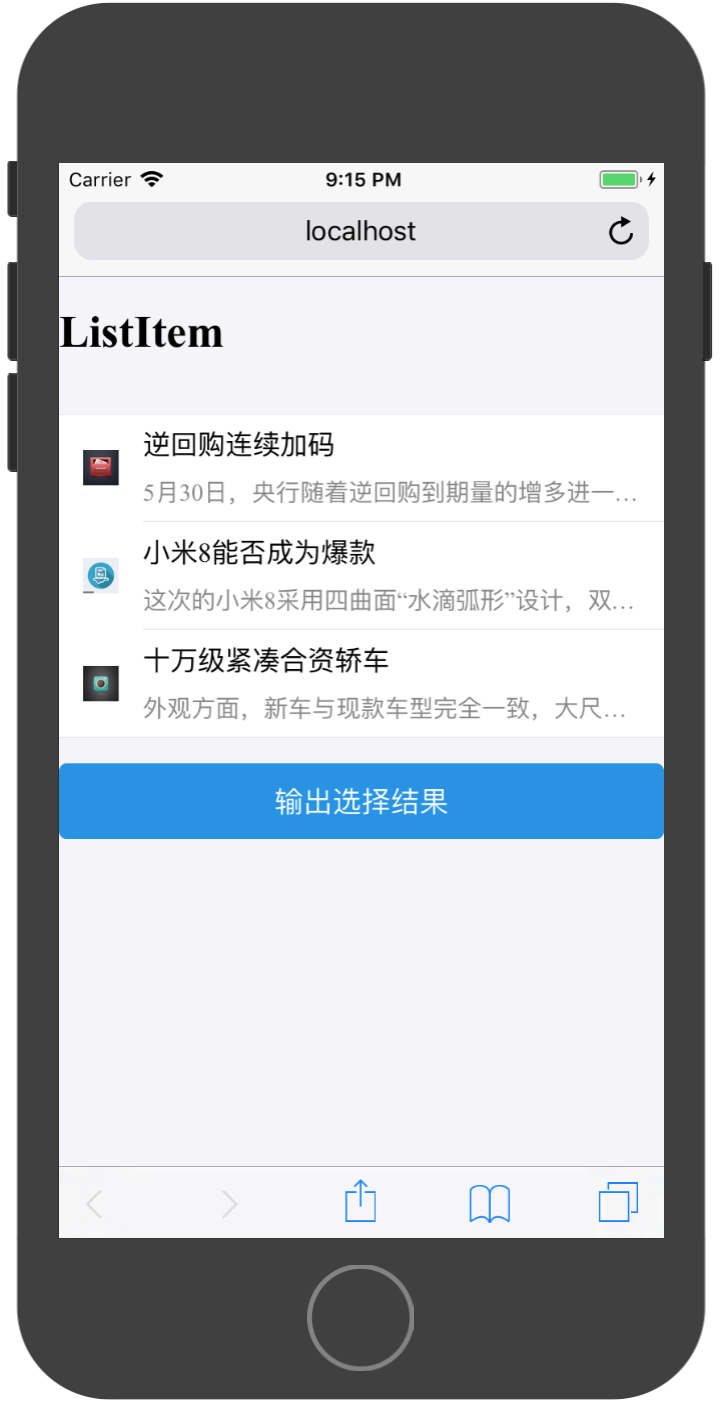
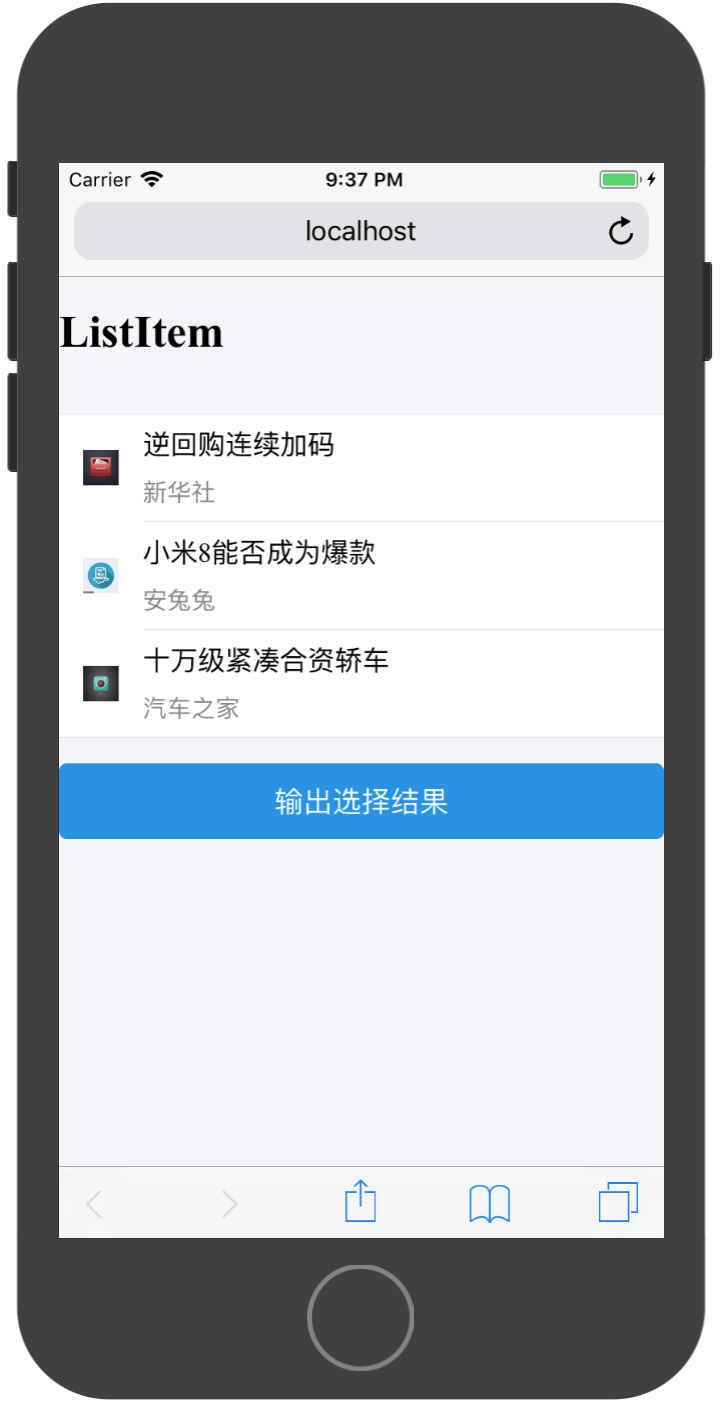
修改子标题代码数据

diff --git a/AntDesign/ListComponent.md b/AntDesign/ListComponent.md
@@ -121,7 +121,7 @@ export default class App extends Component {
 
 ```
 
-通过``可以为Item添加子标题：
+通过`List.Item.Brief`可以为Item添加子标题：
 
 ![44.png](../images/44.png)
 
@@ -137,20 +137,23 @@ const messages = [
   {
     id:10001,
     title:'逆回购连续加码',
-    content:'5月30日，央行随着逆回购到期量的增多进一步加大了公开市场操作力度，当次共开展2700亿元逆回购操作，实现净投放700亿元，连续三日实施净投放。市场人士指出，企业所得税汇算清缴叠加月末效应等，致使短期流动性承压，也应看到，央行在加大资金投放力度的同时，丰富了逆回购期限组合，有助于满足不同机构的流动性需求，资金面紧张局势不是大幅恶化，预计跨月后将有所好转。',
-    image:'http://suo.im/5bvA3t'
+    content:'新华社',
+    image:'http://suo.im/5bvA3t',
+    like:10,
   },
   {
     id:10002,
     title:'小米8能否成为爆款',
-    content:'这次的小米8采用四曲面“水滴弧形”设计，双面玻璃+金属材质中框，正面配备6.21英寸18.7：9的三星AMOLED异形全面屏，机身厚度为7.6mm，一共有白色、金色、亮蓝、黑色四种配色。',
-    image:'http://suo.im/4AAWQa'
+    content:'安兔兔',
+    image:'http://suo.im/4AAWQa',
+    like:11,
   },
   {
     id:10003,
     title:'十万级紧凑合资轿车',
-    content:'外观方面，新车与现款车型完全一致，大尺寸进气格栅内部采用蜂窝式中网，FORD品牌标识镶嵌其中，冲击力十足。车身尺寸方面，新车长宽高分别为5910x2192x1992毫米，轴距达3708毫米，这样一个大块头再配上大尺寸黑色轮圈以及粗线条的轮眉，更加彰显狂野气息。',
-    image:'http://suo.im/5qy03v'
+    content:'汽车之家',
+    image:'http://suo.im/5qy03v',
+    like:12,
   }
 ]
 

diff --git a/AntDesign/BaseComponent.md b/AntDesign/BaseComponent.md
@@ -1,4 +1,4 @@
-# antd基础组件
+# Ant基础组件
 
 ### Button 按钮
 
